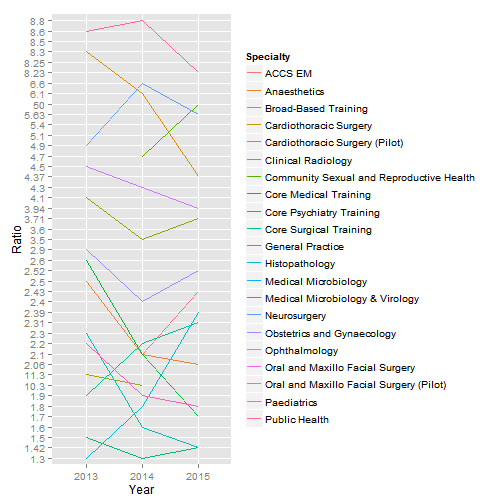
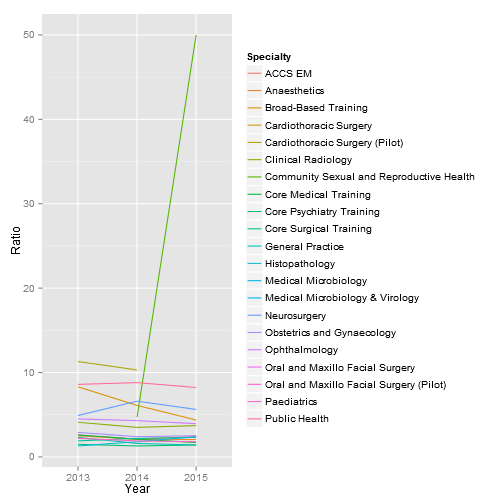
Fixed a minor error

Changed region(s): [[0.0, 0.0298, 0.4762, 0.9821], [0.4762, 0.0893, 0.9524, 0.8631]]

diff --git a/_posts/2016-01-30-Specialty-training-competition-ratios.md b/_posts/2016-01-30-Specialty-training-competition-ratios.md
@@ -219,8 +219,10 @@ Let's now plot some graphs to visualise the data
 {% highlight r %}
 #Need to first convert the Specialty column from a vector of characters to factors
 CompetitionRatios$Specialty <- as.factor(CompetitionRatios$Specialty)
-CompetitionRatios$Ratio <- as.factor(CompetitionRatios$Ratio)
+CompetitionRatios$Ratio <- as.numeric(CompetitionRatios$Ratio)
 CompetitionRatios$Year <- as.factor(CompetitionRatios$Year)
+CompetitionRatios$Applicants <- as.numeric(CompetitionRatios$Applicants)
+CompetitionRatios$Posts <- as.numeric(CompetitionRatios$Posts)
 
 ggplot(data=CompetitionRatios, aes(x=Year, y=Ratio, group = Specialty, colour = Specialty)) +
   geom_line()
@@ -228,12 +230,12 @@ ggplot(data=CompetitionRatios, aes(x=Year, y=Ratio, group = Specialty, colour = 
 
 ![center](/figures/2016-01-30-Specialty-training-competition-ratios/unnamed-chunk-6-1.png) 
 
-So this is a little busy, it might be worth reducing the number of Specialties to just GP, CMT, CST and Anaesthetics.
+So this is a little busy, it might be worth reducing the number of Specialties to just GP, CMT, CST, Paediatrics and Anaesthetics.
 
 
 {% highlight r %}
 #Need to first convert the Specialty column from a vector of characters to factors
-CompetitionRatios2 <- CompetitionRatios %>% filter(Specialty == "Anaesthetics" | Specialty == "Core Medical Training" | Specialty == "Core Surgical Training" | Specialty == "General Practice")
+CompetitionRatios2 <- CompetitionRatios %>% filter(Specialty == "Anaesthetics" | Specialty == "Core Medical Training" | Specialty == "Core Surgical Training" | Specialty == "General Practice" | Specialty == "Paediatrics")
 
 ggplot(data=CompetitionRatios2, aes(x=Year, y=Ratio, group = Specialty, colour = Specialty)) +
   geom_line() +
